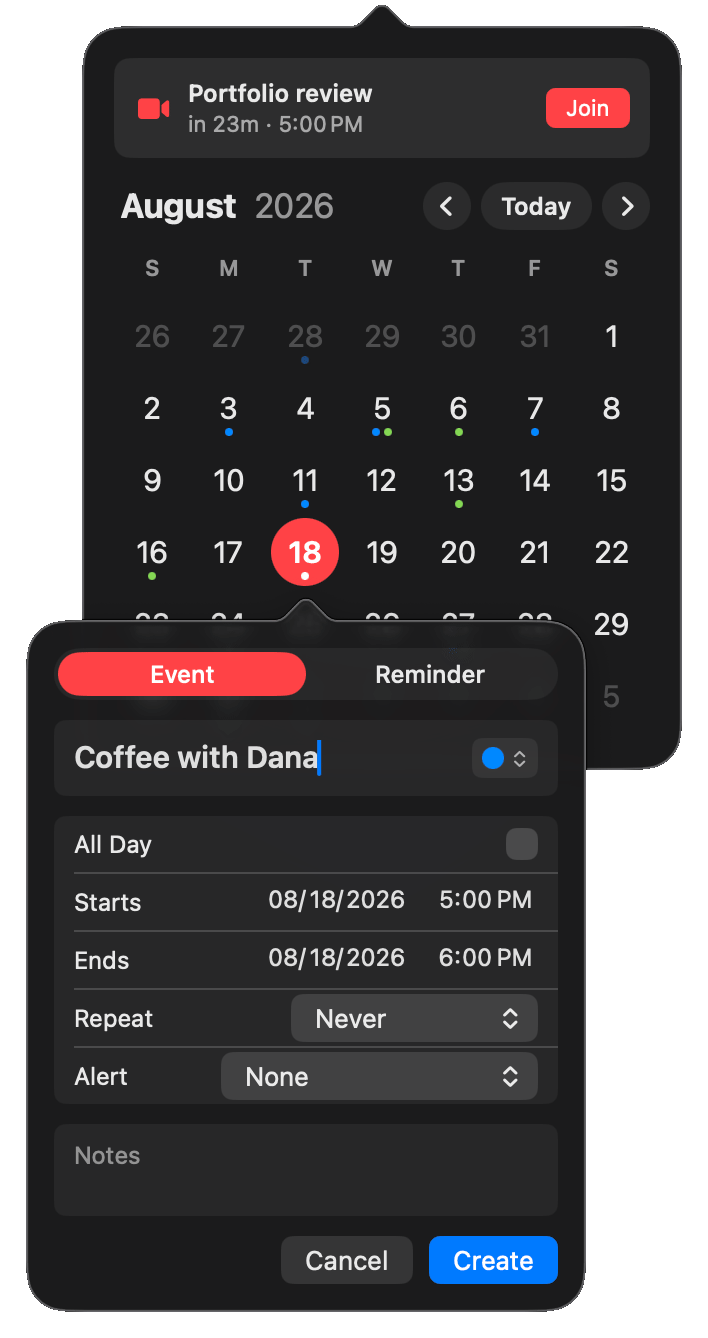
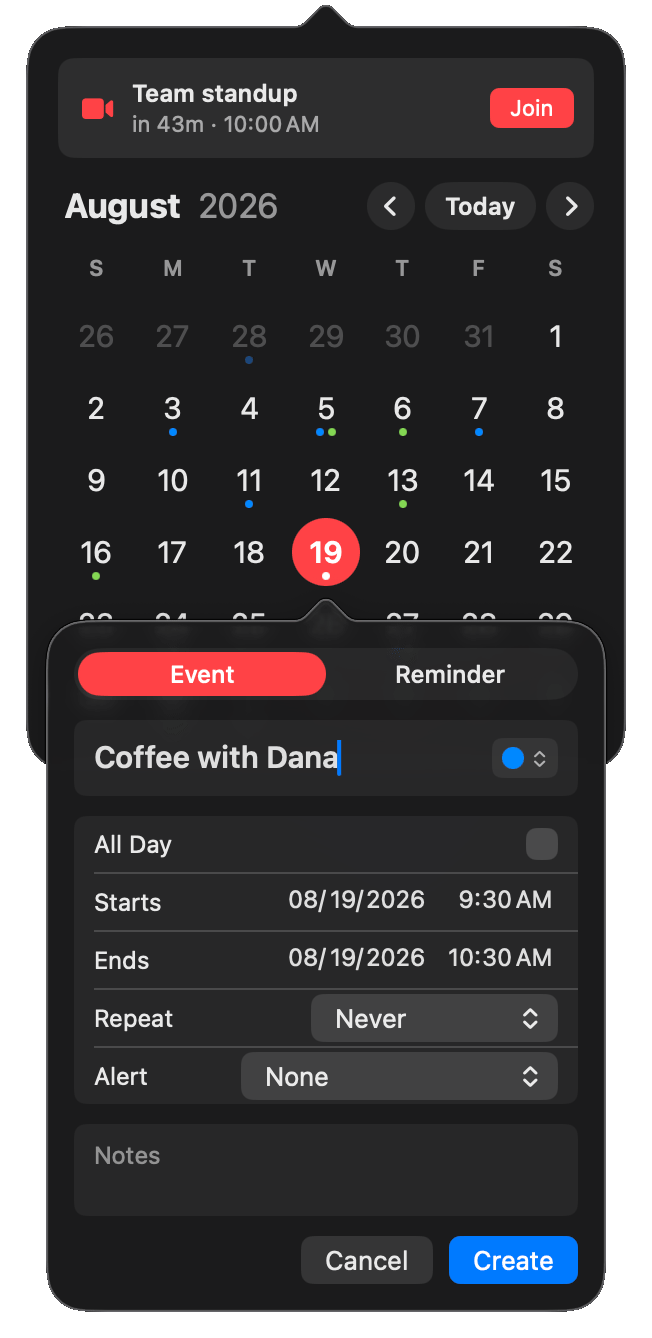
Re-render the demo GIF to match the transparent stills
The GIF still carried the old gradient backdrop, which read as a coloured slab
sitting between stills that float on the page. GIF has no real alpha, so this
renders a light and a dark cut on GitHub's own page colours instead and serves
them through <picture>, which lands in the same place visually.

Frames come from the eight popover states the demo walks through, each grabbed
as a transparent PNG with its union origin recorded so they register on one
canvas rather than jumping as panels open. Month paging is driven by the arrow
keys the popover already handles instead of hunting for the chevrons.

Re-shoots the stills in the same session so the whole README agrees on one day:
Wednesday 19 August, a 10:00 AM meeting, and an agenda on :00/:30 inside 9-5.
The hero now points at the same themed pair instead of its own stale copy.

diff --git a/README.md b/README.md
@@ -19,7 +19,10 @@ your next meeting. Free and open source.</p>
 </td>
 <td width="45%" valign="middle">
 
-<img src="docs/images/hero.png" width="360" alt="CalPeek's popover showing the next meeting with a Join button, an August month grid with event dots, and a day agenda listing events and reminders">
+<picture>
+<source media="(prefers-color-scheme: dark)" srcset="docs/images/day-dark.png">
+<img src="docs/images/day-light.png" width="360" alt="CalPeek's popover showing the next meeting with a Join button, an August month grid with event dots, and a day agenda listing events and reminders">
+</picture>
 
 </td>
 </tr>
@@ -28,7 +31,10 @@ your next meeting. Free and open source.</p>
 ## See it in action
 
 <p align="center">
-<img src="docs/images/demo.gif" width="560" alt="Animation of CalPeek: clicking the menu bar glyph opens the popover, paging through months, clicking a day for its agenda, and creating a new event">
+<picture>
+<source media="(prefers-color-scheme: dark)" srcset="docs/images/demo-dark.gif">
+<img src="docs/images/demo-light.gif" width="560" alt="Animation of CalPeek: the popover paging forward through months and back, opening a day for its agenda, and filling in a new event">
+</picture>
 </p>
 
 ## Peek at any day
